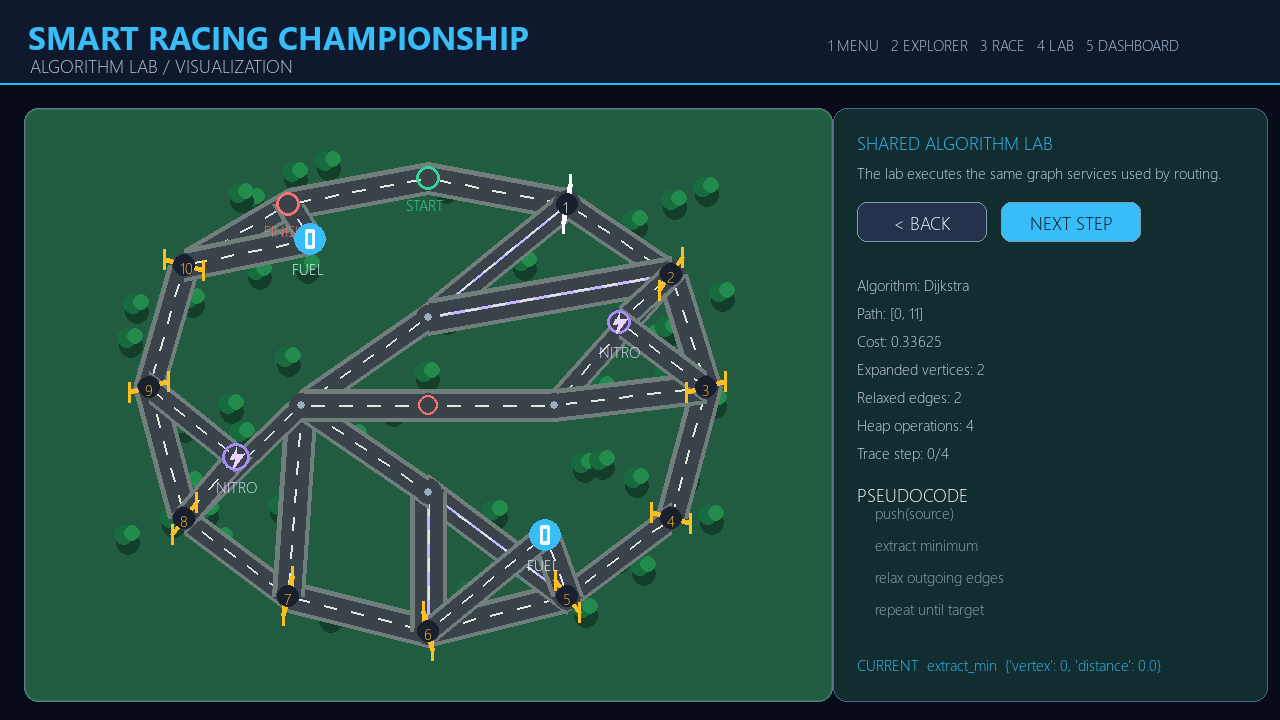
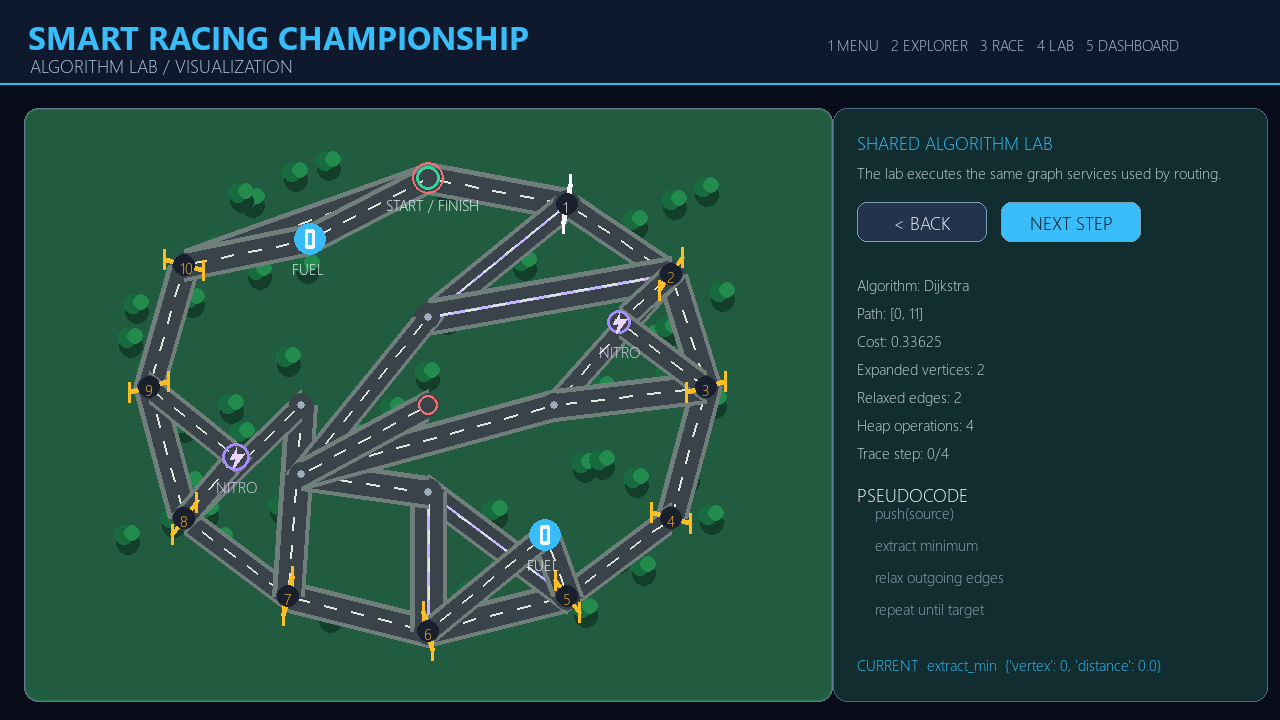
fix(race): restart racers at shared start finish line

Changed region(s): [[0.2188, 0.4278, 0.4375, 0.7028], [0.1562, 0.2139, 0.375, 0.3361]]

diff --git a/src/smart_racing/arcade_ui/app.py b/src/smart_racing/arcade_ui/app.py
@@ -641,7 +641,15 @@ class TrackExplorerBridgeView(ArcadeView):
             if edge.directed:
                 mx, my = (a[0] + b[0]) / 2, (a[1] + b[1]) / 2
                 arcade.draw_circle_filled(mx, my, 3, AMBER)
+        start_finish_position = None
+        if track.start_id in graph.vertices and track.finish_id in graph.vertices:
+            start = graph.vertices[track.start_id]
+            finish = graph.vertices[track.finish_id]
+            if start.x == finish.x and start.y == finish.y:
+                start_finish_position = point(start)
         for vertex in graph.vertices.values():
+            if start_finish_position is not None and vertex.id == track.finish_id:
+                continue
             px, py = point(vertex)
             color = MUTED
             radius = 5
@@ -658,6 +666,11 @@ class TrackExplorerBridgeView(ArcadeView):
             arcade.draw_circle_filled(px, py, radius, color)
             if vertex.checkpoint_order or vertex.type in {VertexType.START, VertexType.FINISH}:
                 _text(str(vertex.checkpoint_order or ("S" if vertex.type == VertexType.START else "F")), px, py - 4, 9, NAVY, anchor_x="center")
+        if start_finish_position is not None:
+            px, py = start_finish_position
+            arcade.draw_circle_filled(px, py, 11, EMERALD)
+            arcade.draw_circle_outline(px, py, 11, CORAL, 3)
+            _text("S/F", px, py - 4, 8, NAVY, anchor_x="center")
 
 
 class TrackExplorerView(ArcadeView):
@@ -1834,6 +1847,16 @@ class TrackExplorerView(ArcadeView):
         arcade.draw_polygon_filled(points, color)
 
     def draw_vertex(self, vertex) -> None:
+        start = self.graph.vertices.get(self.track.start_id)
+        finish = self.graph.vertices.get(self.track.finish_id)
+        start_finish = (
+            vertex.id == self.track.start_id
+            and start is not None
+            and finish is not None
+            and (start.x, start.y) == (finish.x, finish.y)
+        )
+        if vertex.id == self.track.finish_id and vertex.id != self.track.start_id and start_finish:
+            return
         px, py = self.world_to_screen(vertex.x, vertex.y)
         if vertex.id == self.selected_vertex_id:
             arcade.draw_circle_outline(px, py, 24, WHITE, 2)
@@ -1855,10 +1878,12 @@ class TrackExplorerView(ArcadeView):
         elif vertex.type == VertexType.DEAD_END:
             color, radius = CORAL, 7
         arcade.draw_circle_filled(px, py, radius, color)
+        if start_finish:
+            arcade.draw_circle_outline(px, py, radius, CORAL, 3)
         if vertex.checkpoint_order:
             label = f"CP{vertex.checkpoint_order}"
         elif vertex.type == VertexType.START:
-            label = "S"
+            label = "S/F" if start_finish else "S"
         elif vertex.type == VertexType.FINISH:
             label = "F"
         elif vertex.type == VertexType.FUEL_STATION:

diff --git a/src/smart_racing/ui/screens.py b/src/smart_racing/ui/screens.py
@@ -748,6 +748,14 @@ class GameApp:
             self._draw_arrow(screen, pygame, a, b, (235, 248, 255))
 
     def _draw_plan_markers(self, screen, pygame, rect, graph):
+        start_vertex = graph.vertices.get(self.explorer_start_id)
+        destination_vertex = graph.vertices.get(self.explorer_destination_id)
+        if (
+            start_vertex is not None
+            and destination_vertex is not None
+            and (start_vertex.x, start_vertex.y) == (destination_vertex.x, destination_vertex.y)
+        ):
+            return
         for vertex_id, label, color in ((self.explorer_start_id, "PLAN START", (52, 211, 153)), (self.explorer_destination_id, "PLAN DEST", (248, 250, 252))):
             vertex = graph.vertices.get(vertex_id)
             if vertex is None:
@@ -845,7 +853,16 @@ class GameApp:
         pygame.draw.line(screen, (251, 191, 36), (p1[0] + 4, p1[1] + 4), (p2[0] + 4, p2[1] + 4), 3)
 
     def _draw_services_and_checkpoints(self, screen, pygame, track, rect, graph, camera, show_details):
+        start = graph.vertices.get(track.start_id)
+        finish = graph.vertices.get(track.finish_id)
+        shared_timing_line = (
+            start is not None
+            and finish is not None
+            and (start.x, start.y) == (finish.x, finish.y)
+        )
         for vertex in graph.vertices.values():
+            if shared_timing_line and vertex.id == track.finish_id and vertex.id != track.start_id:
+                continue
             px, py = self._world_to_screen(vertex.x, vertex.y, rect, camera)
             if not rect.collidepoint(px, py):
                 continue
@@ -867,7 +884,11 @@ class GameApp:
                 pygame.draw.circle(screen, (248, 113, 113), (px, py), 10, 2)
             elif vertex.type == VertexType.START:
                 pygame.draw.circle(screen, (52, 211, 153), (px, py), 12, 3)
-                draw_text(screen, self._small, "START", (px - 22, py + 16), (52, 211, 153))
+                if shared_timing_line:
+                    pygame.draw.circle(screen, (248, 113, 113), (px, py), 16, 2)
+                    draw_text(screen, self._small, "START / FINISH", (px - 42, py + 16), (235, 248, 255))
+                else:
+                    draw_text(screen, self._small, "START", (px - 22, py + 16), (52, 211, 153))
             elif vertex.type == VertexType.FINISH:
                 pygame.draw.circle(screen, (248, 113, 113), (px, py), 12, 3)
                 draw_text(screen, self._small, "FINISH", (px - 24, py + 16), (248, 113, 113))

diff --git a/tests/unit/test_tracks_and_events.py b/tests/unit/test_tracks_and_events.py
@@ -1,5 +1,7 @@
 from smart_racing.model.events import Event, EventType
 from smart_racing.services.event_scheduler import EventScheduler
+from smart_racing.services.race_engine import RaceEngine
+from smart_racing.services.route_planner import RoutePlanner
 from smart_racing.services.track_loader import load_tracks
 from smart_racing.services.track_validator import TrackValidator
 
@@ -19,3 +21,40 @@ def test_event_order_cancellation_and_expiration():
     scheduler.schedule(Event(3, EventType.FUEL_STATION, 5, 1, 3))
     scheduler.cancel(3)
     assert [e.event_id for e in scheduler.pop_due(5)] == [2, 1]
+
+
+def test_each_circuit_uses_one_physical_start_finish_timing_line():
+    for track in load_tracks():
+        graph = track.graph()
+        start = graph.vertices[track.start_id]
+        finish = graph.vertices[track.finish_id]
+        assert (start.x, start.y) == (finish.x, finish.y)
+
+
+def test_transferred_player_route_restarts_at_shared_start_finish_for_second_lap():
+    for track in load_tracks():
+        report = RoutePlanner(track, "balanced").plan_route(
+            track.start_id,
+            track.finish_id,
+            "dijkstra",
+            checkpoint_aware=True,
+        )
+        assert report is not None
+        engine = RaceEngine(
+            track,
+            route_config={
+                "player_path": report["path"],
+                "preset": "balanced",
+                "strategy": "balanced",
+                "checkpoint_aware": True,
+            },
+            events_enabled=False,
+        )
+        results = engine.run()
+        player = next(racer for racer in engine.racers if racer.is_human)
+        player_result = next(result for result in results if result.racer_id == player.id)
+        assert player.lap == engine.config.laps
+        assert player.current_vertex == track.finish_id
+        assert player_result.finish_time is not None
+        assert not player_result.dnf
+        assert player_result.completed_checkpoints == engine.config.laps * len(track.checkpoint_ids) + len(track.checkpoint_ids)

diff --git a/src/smart_racing/arcade_ui/race_view.py b/src/smart_racing/arcade_ui/race_view.py
@@ -350,9 +350,18 @@ class ArcadeRacingView(ArcadeView):
             arcade.draw_line(*a, *b, color, 2)
 
     def _draw_vertex(self, vertex):
+        finish = self.engine.graph.vertices[self.track.finish_id]
+        if vertex.id == self.track.finish_id and vertex.id != self.track.start_id:
+            if vertex.x == self.engine.graph.vertices[self.track.start_id].x and vertex.y == self.engine.graph.vertices[self.track.start_id].y:
+                return
         x, y = self.world_to_screen(vertex.x, vertex.y)
+        start_finish = (
+            vertex.id == self.track.start_id
+            and finish.x == vertex.x
+            and finish.y == vertex.y
+        )
         if vertex.type == VertexType.START:
-            color, radius, label = EMERALD, 11, "S"
+            color, radius, label = EMERALD, 11, "S/F" if start_finish else "S"
         elif vertex.type == VertexType.FINISH:
             color, radius, label = CORAL, 11, "F"
         elif vertex.checkpoint_order:
@@ -366,6 +375,8 @@ class ArcadeRacingView(ArcadeView):
         else:
             color, radius, label = (155, 168, 183), 4, str(vertex.id)
         arcade.draw_circle_filled(x, y, radius, color)
+        if start_finish:
+            arcade.draw_circle_outline(x, y, radius, CORAL, 3)
         if vertex.id == self.engine._player().current_vertex if self.engine._player() else False:
             arcade.draw_circle_outline(x, y, radius + 7, WHITE, 2)
         arcade.draw_text(label, x, y + radius + 3, WHITE, font_size=9 if len(label) < 5 else 7, anchor_x="center", font_name=("Aptos Display", "Arial"), bold=True)

diff --git a/src/smart_racing/services/geometry_validator.py b/src/smart_racing/services/geometry_validator.py
@@ -38,14 +38,18 @@ def validate_geometry(track: Track, *, minimum_label_spacing: float = 18.0) -> G
     for index, first in enumerate(points):
         for second in points[index + 1 :]:
             if math.hypot(first.x - second.x, first.y - second.y) < 1e-6:
-                errors.append(f"duplicate coordinates at vertices {first.id} and {second.id}")
+                # The start and finish are distinct graph vertices at one
+                # physical timing line. Their IDs stay distinct for routing.
+                if {first.id, second.id} != {track.start_id, track.finish_id}:
+                    errors.append(f"duplicate coordinates at vertices {first.id} and {second.id}")
             if first.checkpoint_order and second.checkpoint_order and math.hypot(first.x - second.x, first.y - second.y) < minimum_label_spacing:
                 warnings.append(f"checkpoint labels {first.checkpoint_order} and {second.checkpoint_order} are close")
     segments = []
     for edge in track.edges:
         source, target = vertices[edge.from_id], vertices[edge.to_id]
         length = math.hypot(source.x - target.x, source.y - target.y)
-        if length < 1e-6 or edge.distance <= 0:
+        timing_line = {edge.from_id, edge.to_id} == {track.start_id, track.finish_id}
+        if (length < 1e-6 and not timing_line) or edge.distance <= 0:
             errors.append(f"edge {edge.id} has zero geometry or distance")
         segments.append((edge, (source.x, source.y), (target.x, target.y)))
     for index, (first, a, b) in enumerate(segments):

diff --git a/src/smart_racing/services/track_loader.py b/src/smart_racing/services/track_loader.py
@@ -65,9 +65,9 @@ def _finalize(index, name, theme, vertices, edges, checkpoints, finish, descript
 def _emerald_loop() -> Track:
     points = [
         (400, 90), (560, 120), (680, 200), (720, 330), (680, 480), (560, 570),
-        (400, 610), (240, 570), (120, 480), (80, 330), (120, 190), (240, 120),
+        (400, 610), (240, 570), (120, 480), (80, 330), (120, 190), (400, 90),
         (400, 250), (400, 450), (255, 350), (545, 350), (265, 160), (535, 500),
-        (620, 255), (180, 410), (400, 350), (255, 350),
+        (620, 255), (180, 410), (400, 350), (255, 430),
     ]
     vertices = _make_vertices(points)
     for vertex_id, vertex_type in [
@@ -114,7 +114,7 @@ def _canyon_switchbacks() -> Track:
     points = [
         (100, 600), (180, 520), (300, 560), (420, 490), (540, 540), (680, 450),
         (560, 370), (680, 290), (520, 240), (640, 150), (470, 100), (360, 220),
-        (250, 300), (430, 320), (300, 430), (100, 430),
+        (250, 300), (430, 320), (300, 430), (100, 600),
     ]
     points.extend(
         [
@@ -175,7 +175,7 @@ def _metro_grid() -> Track:
     points = [
         (100, 100), (260, 100), (420, 100), (580, 100), (700, 210), (700, 360),
         (700, 510), (580, 620), (420, 660), (260, 620), (100, 510), (100, 300),
-        (260, 260), (420, 260), (580, 260), (580, 440), (760, 360), (260, 690),
+        (260, 260), (420, 260), (580, 260), (100, 100), (760, 360), (260, 690),
         (340, 260), (640, 570), (420, 360), (260, 440), (580, 520), (100, 260),
     ]
     vertices = _make_vertices(points)

diff --git a/src/smart_racing/arcade_ui/race_modes_view.py b/src/smart_racing/arcade_ui/race_modes_view.py
@@ -39,6 +39,16 @@ class _TrackPreviewMixin:
             color = CORAL if edge.status == EdgeStatus.BLOCKED else PURPLE if edge.is_shortcut else (91, 116, 142)
             arcade.draw_line(*a, *b, color, 6 if edge.is_shortcut else 4)
         for vertex in vertices:
+            start = graph.vertices.get(track.start_id)
+            finish = graph.vertices.get(track.finish_id)
+            if (
+                vertex.id == track.finish_id
+                and vertex.id != track.start_id
+                and start is not None
+                and finish is not None
+                and (start.x, start.y) == (finish.x, finish.y)
+            ):
+                continue
             x, y = point(vertex)
             if vertex.type == VertexType.START:
                 color, label = EMERALD, "S"
@@ -53,6 +63,9 @@ class _TrackPreviewMixin:
             else:
                 color, label = (138, 158, 181), str(vertex.id)
             arcade.draw_circle_filled(x, y, 8 if vertex.checkpoint_order else 6, color)
+            if vertex.id == track.start_id and finish is not None and (vertex.x, vertex.y) == (finish.x, finish.y):
+                arcade.draw_circle_outline(x, y, 8 if vertex.checkpoint_order else 6, CORAL, 2)
+                label = "S/F"
             _text(label, x, y - 4, 8, NAVY, anchor_x="center", bold=True)
 
 

diff --git a/src/smart_racing/services/race_engine.py b/src/smart_racing/services/race_engine.py
@@ -229,6 +229,14 @@ class RaceEngine:
             if racer.lap >= self.config.laps:
                 racer.finished = True
             else:
+                # The finish line is the same physical position as the start
+                # line. Keep the finish vertex as the authoritative lap
+                # boundary, then place every racer back on the start vertex so
+                # the transferred player route can be replayed from index 0 on
+                # the next lap. Leaving the racer at ``finish_id`` makes an
+                # exact player path appear to have no next road and causes the
+                # player to wait indefinitely while AI racers re-plan.
+                racer.current_vertex = self.track.start_id
                 racer.next_checkpoint = 0
                 racer.current_path = []
                 racer.current_edge_index = 0

diff --git a/docs/REQUIREMENTS_TRACEABILITY.md b/docs/REQUIREMENTS_TRACEABILITY.md
@@ -28,7 +28,7 @@ Source priority: the supplied `Project.pdf` is authoritative; the implementation
 | Fuel rules | PDF 4.3 | race engine and rules doc | Racing HUD | race/resource tests | VERIFIED | fuel consumption |
 | Nitro rules | PDF 4.3 | `Racer` nitro fields, engine activation | Racing HUD | resource/control tests | VERIFIED | manual/AI activation and expiry |
 | Reachable service topology | PDF 3.1/4.1/4.3 | generated track graphs + `TrackValidator` resource checks | Explorer/Racing | `test_track_validation.py` + validator | VERIFIED | every fuel/nitro vertex has incident roads, start reachability, finish reachability |
-| Complete-lap/fuel feasibility | PDF 4.2/4.3 | validator ordered-lap and `RoutePlanner.resource_plan` checks | Explorer/Racing | `test_track_validation.py` + full races | VERIFIED | start → 10 checkpoints → finish → next checkpoint is feasible on all 3 tracks |
+| Complete-lap/fuel feasibility | PDF 4.2/4.3 | validator ordered-lap and `RoutePlanner.resource_plan` checks; shared start/finish lap reset in `RaceEngine` | Explorer/Racing | `test_track_validation.py`, shared timing-line regression, two-lap planned-route race, full races | VERIFIED | start and finish coordinates coincide on all 3 tracks; start → 10 checkpoints → finish → start → next checkpoint is feasible and completes without DNF |
 | Player driving controls | Improvement prompt 7 | `RaceEngine` input contract + `GameApp` key loop | Racing Screen | player-control integration test | VERIFIED | throttle, brake, route selection, refuel, nitro |
 | Deterministic AI policies | PDF 4.4 | `RaceEngine._choose_plan` | Racing Screen | deterministic replay | IMPLEMENTED | 3 strategy types |
 | Event min-heap ordering | PDF 4.5 | `EventScheduler` | event log | event tests | VERIFIED | tuple key |
@@ -48,13 +48,13 @@ Source priority: the supplied `Project.pdf` is authoritative; the implementation
 | Multi-objective bonus | PDF 8.2 | cost presets | Explorer | preset comparison | VERIFIED | four presets |
 | Live top-k bonus | PDF 8.3 | heap `nsmallest` top-k | Dashboard service | top-k test | VERIFIED | comparator equality |
 | Responsive UI evidence | Improvement prompt 8/19, Phase 1 prompt | `tools/visual_smoke.py`, `docs/screenshots/` | all screens | real Pygame render plus Arcade smoke at 1280x720, 1600x900, 1920x1080 | VERIFIED | Pygame screenshots; latest Arcade menu, settings, instructions, circuit selection, Explorer, Racing, Lab, and Dashboard frames inspected |
-| Required tests | PDF 9.1 | `tests/` | n/a | `python -m pytest -q` | VERIFIED | 55 passed |
+| Required tests | PDF 9.1 | `tests/` | n/a | `python -m pytest -q` | VERIFIED | 57 passed |
 | Technical report | PDF 9.2 | `build_report.py` | n/a | PDF render inspection | VERIFIED | 5-page report |
 | Submission package | PDF 9.3 | `build_submission.ps1` | n/a | archive manifest/open | VERIFIED | ZIP generated |
 | Explorer route configuration handoff | Improvement task | `GameSession.route_plan` → Racing destination | Explorer -> Racing | `test_route_configuration_transfers_from_explorer_to_race_session` + direct view smoke | VERIFIED | circuit, algorithm, preset, endpoints, path, edge IDs, metrics, fuel plan |
 | Live Explorer closure reroute | Improvement task | explorer live graph + route recalculation | Explorer | blocked-edge integration test | VERIFIED | closed route edge excluded |
 | Interactive road-event workspace | Road Event Preview fix prompt | `TrackExplorerView` split-screen event workspace and graph copy | Explorer -> Road Event Preview | `test_explorer_road_event_restriction_changes_cost_and_undo_restores`, `test_explorer_close_event_preview_restores_canonical_graph_and_route`, `test_explorer_next_road_cycles_all_circuit_edges_in_id_order_with_wraparound`, direct three-circuit callback smoke, inspected 1280/1440/1600 captures | VERIFIED | clickable map edge selection, hover/candidate cycling, edge-ID ordered NEXT ROAD with wraparound, close/reopen/restrict actions, weighted restriction effect, route impact, recalculate, undo, reset, close restore |
-| Explorer geometry safety | Track Explorer improvement prompt | `services/geometry_validator.py`, authoritative circuit JSON | Explorer map load | `python -m pytest -q`, `run_validation.py` | VERIFIED | duplicate coordinates and zero-length geometry fail validation; non-connected crossings are surfaced as warnings; all three circuits pass |
+| Explorer geometry safety | Track Explorer improvement prompt | `services/geometry_validator.py`, authoritative circuit JSON | Explorer map load | `python -m pytest -q`, `run_validation.py`, shared timing-line regression | VERIFIED | unrelated duplicate coordinates and zero-length geometry fail validation; the intentional start/finish timing-line pair is allowed; non-connected crossings are surfaced as warnings; all three circuits pass |
 | Explorer button/state audit | Track Explorer improvement prompt | `TrackExplorerView` callbacks and `GameSession.explorer_*` context | Explorer controls/modals | `docs/TRACK_EXPLORER_BUTTON_AUDIT.md` plus modal screenshots | VERIFIED | every visible control has a callback, stale-route invalidation, or documented intentional guard |
 
 ## Known scope notes

diff --git a/docs/TEST_MATRIX.md b/docs/TEST_MATRIX.md
@@ -4,13 +4,13 @@ The project uses deterministic tests plus real Arcade/Pygame smoke captures. A f
 
 | Area | Automated evidence | Visual/command evidence | Current target |
 |---|---|---|---|
-| Circuit topology | `tests/unit/test_track_validation.py`, `run_validation.py` | Three circuit validation reports | Pass |
+| Circuit topology | `tests/unit/test_track_validation.py`, `tests/unit/test_tracks_and_events.py`, `run_validation.py` | Three circuit validation reports and shared start/finish timing-line inspection | Pass |
 | Ordered route planning | `tests/unit/test_route_planner.py` | Explorer route overlay captures | Pass |
 | Closures and rerouting | `tests/integration/test_ui_smoke.py`, race tests | Explorer blocked-edge capture | Pass |
 | Fuel and nitro | `tests/unit/test_route_planner.py`, `tests/integration/test_race.py` | Racing HUD capture | Pass |
 | Main Menu | `tests/unit/test_arcade_frontend.py` | Arcade 1280/1600/1920 captures | Pass |
 | Track Explorer | route/session, geometry, comparison-card, road-event, NEXT ROAD, and Explorer integration tests | `arcade_explorer_overhaul_1280.png`, `_1600.png`, `_1920.png`, `arcade_explorer_events_1280.png`, `arcade_explorer_events_next_1280.png`, `_1440.png`, `_1600.png`, responsive comparison/resources/start-confirmation captures | Pass |
-| Racing Screen | race replay/control/sprint tests; exact transferred-path and all-circuits/both-modes planned-route test | `planned_race_roads_1280.png`, `arcade_race_quick_modes_1280.png` | Pass |
+| Racing Screen | race replay/control/sprint tests; exact transferred-path, shared start/finish, and all-circuits/both-modes planned-route tests | `planned_race_roads_1280.png`, `arcade_race_quick_modes_1280.png` | Pass |
 | Algorithm Lab | catalog/session tests, comparison-selection tests, trace-hook tests, algorithm unit suite, direct 13-entry × 3-circuit and four-category comparison audit | `algorithm_lab_1280.png`, `algorithm_lab_1600.png`, `algorithm_lab_1920.png`, graph/DP/heap/sorting captures, `algorithm_comparison_weighted_1280.png` | Pass |
 | Championship Dashboard | scoring/championship tests | `arcade_dashboard_1280.png` | Pass |
 | Quick Race setup/results | route-gate, configuration, no-point-mutation, and all-circuits planned-path tests | `quick_setup_route_gate_1280.png`, `quick_results_centered_1280.png`, `quick_results_centered_1600.png` | Pass |

diff --git a/docs/PROGRESS.md b/docs/PROGRESS.md
@@ -84,6 +84,14 @@ Status: `COMPLETE` for the expanded gameplay/UI and release gates in the current
 - Visual evidence inspected: `quick_setup_route_gate_1280.png`, `route_planner_gate_1280.png`, `planned_race_roads_1280.png`, `quick_results_centered_1280.png`, and `championship_dashboard_route_flow_1280.png`.
 - Verification after this phase: 55 tests passed, Ruff passed, all three circuits completed planned-path races in both Quick and Championship modes, and all validation reports remained valid.
 
+## Shared start/finish lap boundary fix (2026-11-21)
+
+- Updated the authoritative generator and JSON tracks so each circuit's finish vertex occupies the exact same world coordinate as its start vertex. The graph IDs remain distinct so the finish still acts as the lap boundary for ordered routing.
+- Added an intentional timing-line exception to geometry validation for the colocated start/finish pair and its zero-length graph boundary edge; all unrelated duplicate coordinates and zero-length roads remain validation errors.
+- Fixed `RaceEngine` to move every racer back to `start_id` after a completed non-final lap. The transferred Explorer `player_path` therefore restarts at route index 0 instead of waiting at `finish_id`.
+- Added regression coverage for shared coordinates and two-lap transferred-route completion on all three circuits. The player now finishes with 30 completed checkpoint events and no DNF in the default two-lap race.
+- Verification after this fix: 57 tests passed, Ruff passed, compile checks passed, `run_validation.py`, headless race, full championship simulation, and Arcade visual smoke all passed. Explorer, racing, and results screenshots were inspected after the fix.
+
 ## Next actions
 
 1. Rebuild the final ZIP after replacing the placeholder registration numbers and section.
